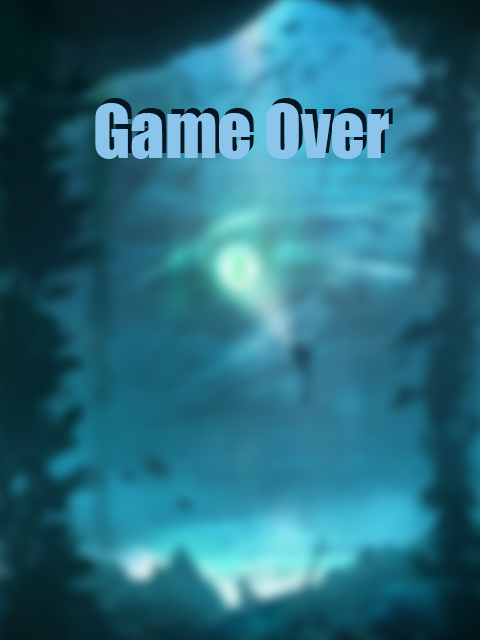
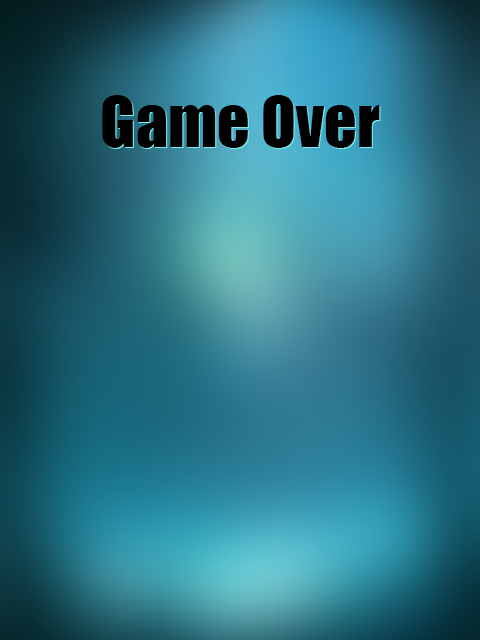
changing backgrounds for all scenes

diff --git a/src/scenes/tutorial.js b/src/scenes/tutorial.js
@@ -4,7 +4,7 @@ class tutorial extends Phaser.Scene {
 	}
 
     preload() {
-        this.load.image('tutorialbackground', './assets/tutorialbackground.png');
+        this.load.image('tutorialbackground', './assets/tutorialbackgroundNEW.png');
         this.load.image('MenuButton', './assets/MenuButton.png')
     }
 

diff --git a/src/scenes/credits.js b/src/scenes/credits.js
@@ -4,7 +4,7 @@ class credits extends Phaser.Scene {
 	}
 
     preload() {
-        this.load.image('tutorialbackground1', './assets/tutorialbackgroundNEW.png');
+        this.load.image('tutorialbackground1', './assets/Donecredits.png');
         this.load.image('MenuButton', './assets/MenuButton.png')
     }
 
